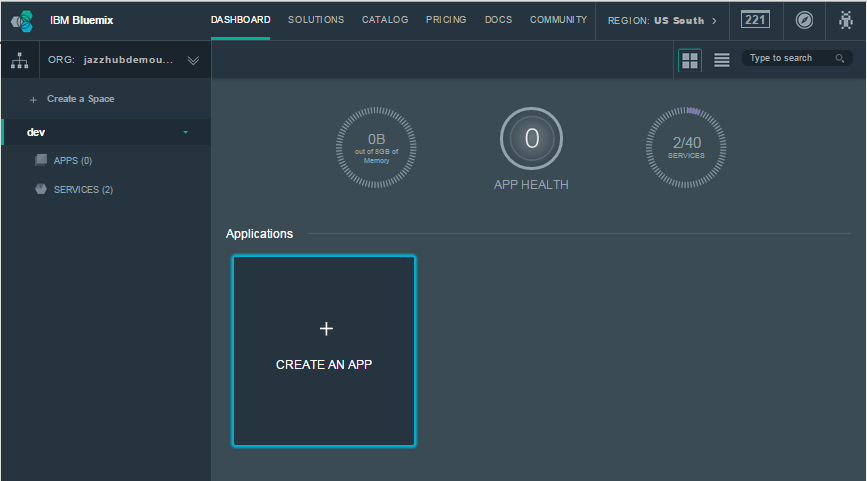
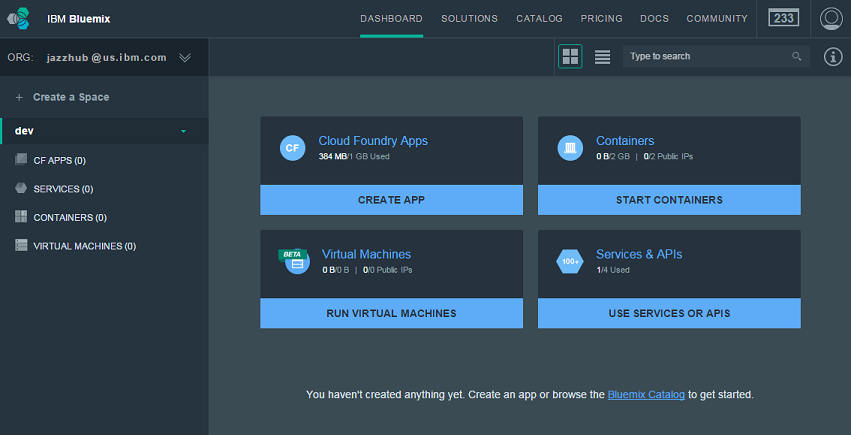
devopsoverview updates Task 46379

diff --git a/tutorials/devopsoverview/index.md b/tutorials/devopsoverview/index.md
@@ -1,6 +1,6 @@
 #Get started: Create, edit, and deploy an app
 
-######Last updated: 9 September 2015
+######Last updated: 25 September 2015
 
 Time: 30 minutes
 
@@ -57,7 +57,7 @@ For example, if `bob@example.com` logs in to Bluemix for the first time, the act
 is `bob@example.com`.
 If you create more organizations or spaces in Bluemix, use the same ones as you follow the tutorials. Use the default selections. -->
 
-1. Click **CREATE AN APP** and then click **WEB**.  
+1. Click **CREATE APP** and then click **WEB**.  
 
 2. Click **SDK for Node.js** and then click **CONTINUE**.
 
@@ -75,8 +75,9 @@ Now that your app is running, you can see and modify the code by using DevOps Se
 
 When you add DevOps Services (**ADD GIT**), you get a DevOps Services project with capabilities, including a Git repository that is fully configured to deploy on commit. 
 
-1. Go to your app's Overview page on the Bluemix Dashboard and click **ADD GIT**.  You might be prompted to enter your password to verify that DevOps Services can act on your behalf.
-<!--![Add Git button](/tutorials/jazzeditor/images/bm-add-git-integration_NEW.png) -->
+1. From your app's Overview page on the Bluemix Dashboard, click **ADD GIT**.  A Git repository is created and is populated with example code and a deployed app. You might be prompted to enter your password to verify that DevOps Services can act on your behalf.
+
+ ![Add Git button](/tutorials/jazzeditor/images/bm-add-git-integration_NEW.png)
 
 2. Make sure that the **Populate the repository with the starter application package and enable build and deploy** check box is selected; then click **CONTINUE**.
 
